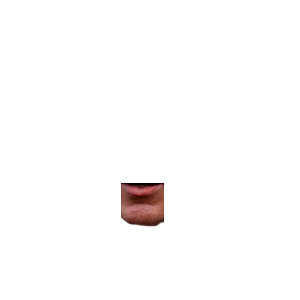
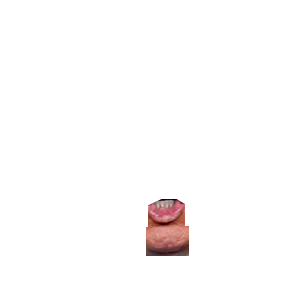
donald

Changed region(s): [[0.39, 0.6, 0.63, 0.87]]

diff --git a/Recherches/postillons/script.js b/Recherches/postillons/script.js
@@ -2,7 +2,7 @@
   256^3 - script.js
   @author Evrard Vincent (vincent@ogre.be)
   @Date:   2020-02-06 23:31:08
-  @Last Modified time: 2020-03-19 23:22:59
+  @Last Modified time: 2020-10-19 23:16:09
 \*----------------------------------------*/
 
 let maxilaire;
@@ -17,7 +17,7 @@ AppManager.ready(function(){
 
 function eventHandler(event){
 	maxilaire = maxilaire || document.querySelector(".maxilaire");
-	maxilaire.style.transform = "translate(0, "+(-10 + Math.random() * 5)+"px)";
+	maxilaire.style.transform = "translate(0, "+( Math.random() * 10)+"px)";
 	new Letter(event.key, event.mouseX, event.mouseY);
 }
 

diff --git a/Recherches/postillons/style.css b/Recherches/postillons/style.css
@@ -2,7 +2,7 @@
 * @Author: Evrard Vincent
 * @Date:   2020-02-06 23:32:06
 * @Last Modified by:   oogre
-* @Last Modified time: 2020-03-19 23:23:50
+* @Last Modified time: 2020-10-19 23:17:10
 */
 
 html{
@@ -31,11 +31,11 @@ body {
 
 img{
 	position: absolute;
+	width: 256px;
 }
 
 .maxilaire{
 
-	transform : translate(0, -10px);
 }
 
 input{
